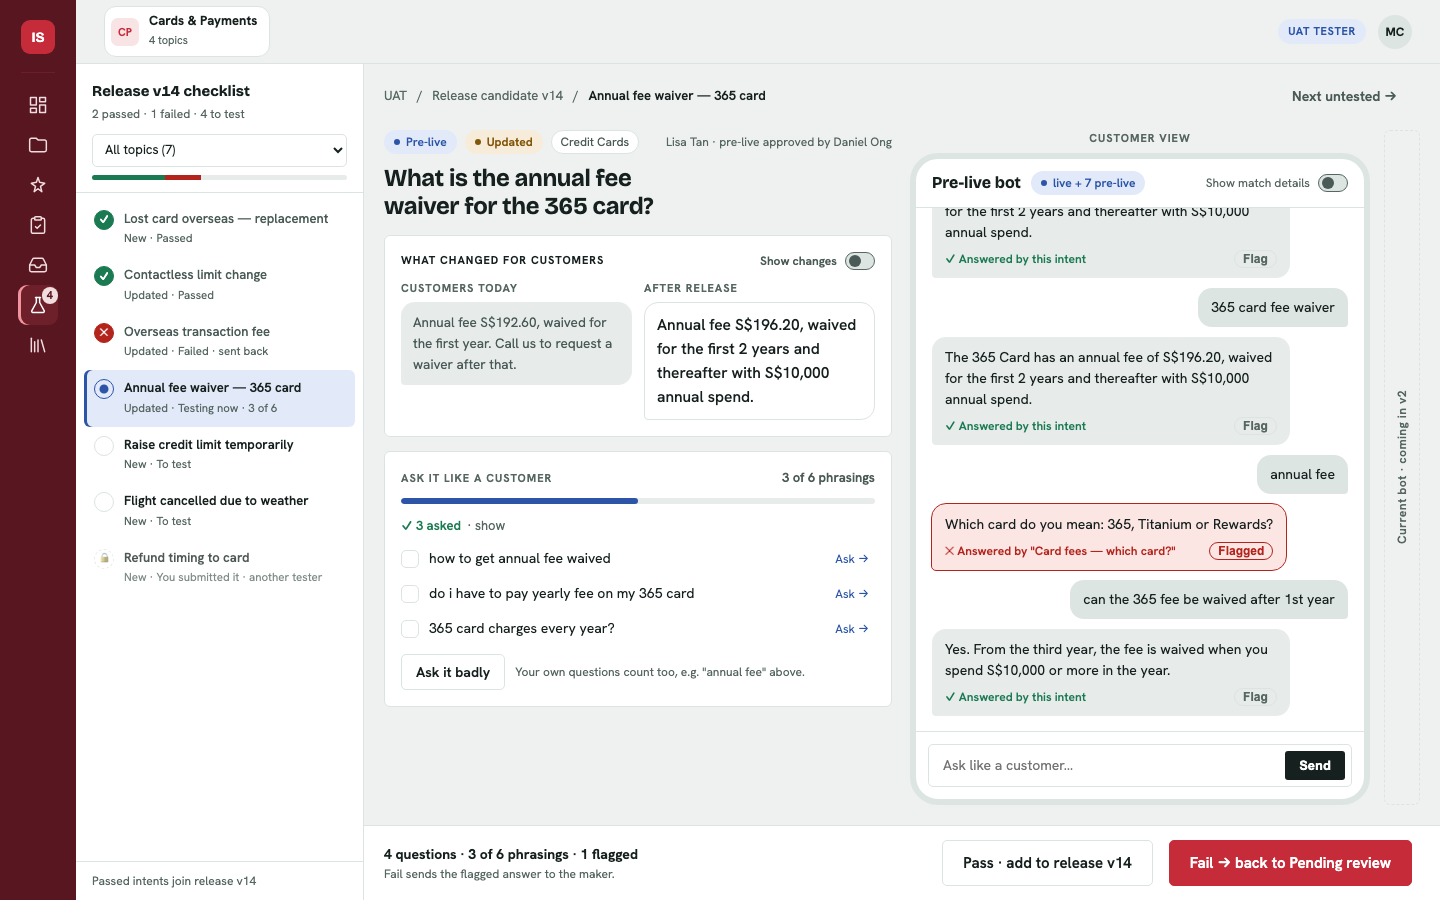
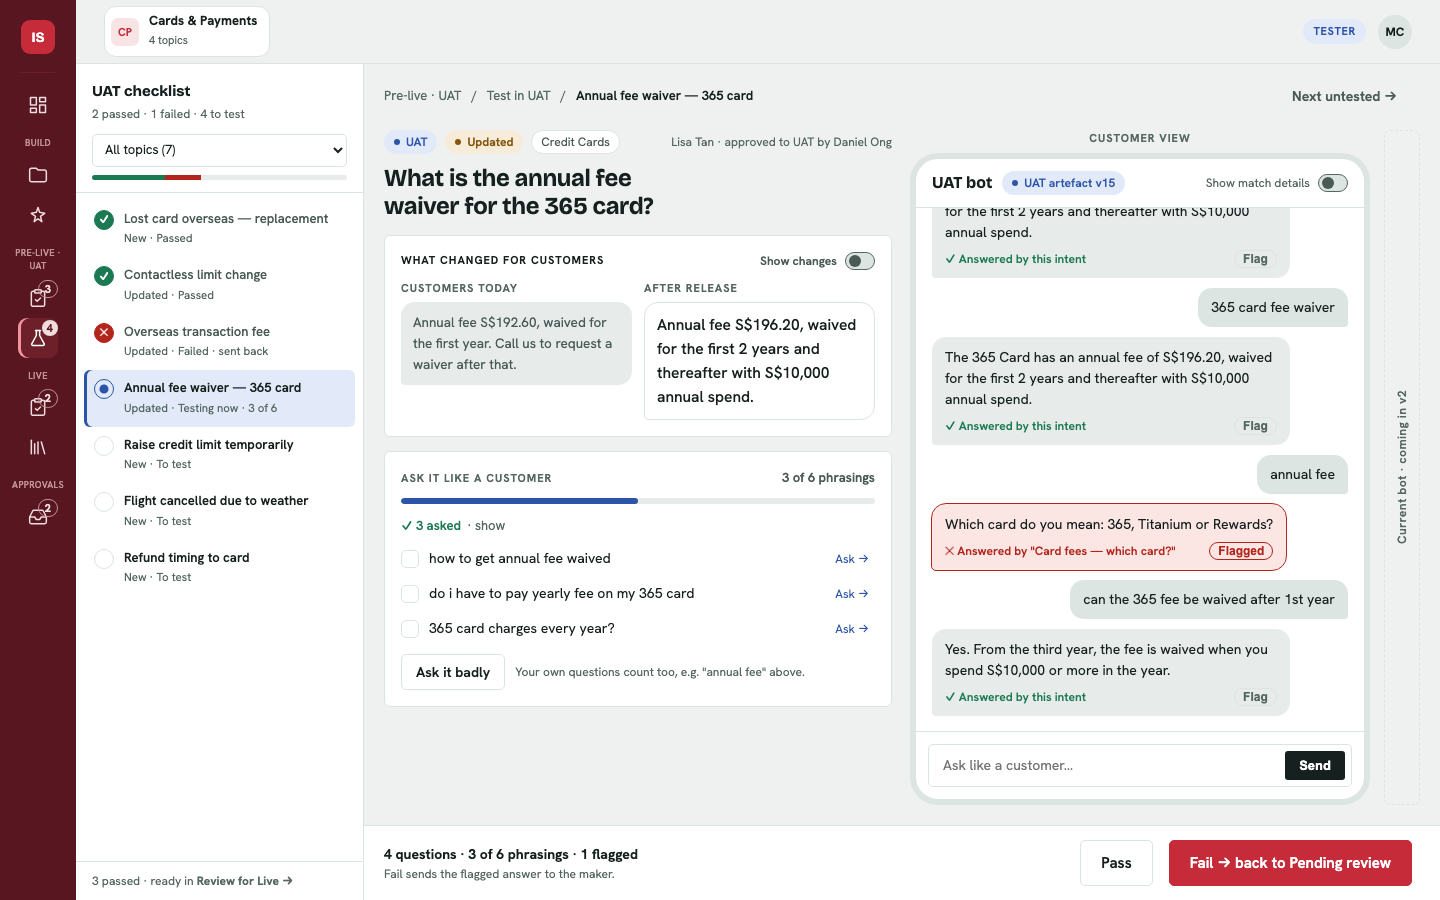
docs(uat): parallel pre-live/live nav, single Approvals with categories, phase 1 = Test in UAT
Claude-Session: https://claude.ai/code/session_0118dYKHurDLsxt3MXXKWWjQ

diff --git a/mockups/proof-screen-uat.html b/mockups/proof-screen-uat.html
@@ -240,6 +240,9 @@ h1{font-size:28px;line-height:1.18;margin-top:10px}
 .qi.pass .tx b,.qi.fail .tx b{color:var(--ink-2);font-weight:500}
 .qi.lock{opacity:.75;cursor:not-allowed}
 .qt{display:block;width:100%;margin-top:10px;font:inherit;font-size:13px;padding:6px 8px;border:1px solid var(--border);border-radius:5px;background:var(--bg);color:var(--ink)}
+.nav a .n2{margin-left:auto;font-size:11px;font-weight:700;color:var(--nav-ink);border:1px solid var(--nav-sub);border-radius:999px;padding:0 6px}
+.q-panel .nav a .n2{position:absolute;top:2px;right:0}
+.q-panel .nav .sec{display:block;font-size:9px;margin:12px 0 4px;text-align:center;letter-spacing:.04em}
 .qf{padding:10px 16px;border-top:1px solid var(--border);font-size:12px;color:var(--ink-3)}
 .q-panel .work{grid-template-columns:minmax(360px,1fr) minmax(400px,460px) 36px;padding-left:20px;padding-right:20px}
 .q-panel .crumbs{padding-left:20px}.q-panel .crumbs .rel>span{display:none}
@@ -285,7 +288,9 @@ h1{font-size:28px;line-height:1.18;margin-top:10px}
     <div class="brand"><span class="mk">IS</span><span><b>Intent Studio</b><small>Knowledge Operations</small></span></div>
     <a title="Dashboard"><svg width="20" height="20" viewBox="0 0 24 24" fill="none" stroke="currentColor" stroke-width="1.8" stroke-linecap="round" stroke-linejoin="round" aria-hidden="true"><rect x="3" y="3" width="7" height="9"/><rect x="14" y="3" width="7" height="5"/><rect x="14" y="12" width="7" height="9"/><rect x="3" y="16" width="7" height="5"/></svg><span class="lt">Dashboard</span></a>
     <div class="sec">Build</div><a title="Project Settings"><svg width="20" height="20" viewBox="0 0 24 24" fill="none" stroke="currentColor" stroke-width="1.8" stroke-linecap="round" stroke-linejoin="round" aria-hidden="true"><path d="M4 20h16a2 2 0 0 0 2-2V8a2 2 0 0 0-2-2h-7.9L10 4H4a2 2 0 0 0-2 2v12a2 2 0 0 0 2 2z"/></svg><span class="lt">Project Settings</span></a><a title="Intent Studio"><svg width="20" height="20" viewBox="0 0 24 24" fill="none" stroke="currentColor" stroke-width="1.8" stroke-linecap="round" stroke-linejoin="round" aria-hidden="true"><path d="M12 3l1.9 5.8L20 10l-5 3.7L16.6 20 12 16.5 7.4 20 9 13.7 4 10l6.1-1.2z"/></svg><span class="lt">Intent Studio</span></a>
-    <div class="sec">Govern</div><a title="Review"><svg width="20" height="20" viewBox="0 0 24 24" fill="none" stroke="currentColor" stroke-width="1.8" stroke-linecap="round" stroke-linejoin="round" aria-hidden="true"><rect x="8" y="2" width="8" height="4" rx="1"/><path d="M16 4h2a2 2 0 0 1 2 2v14a2 2 0 0 1-2 2H6a2 2 0 0 1-2-2V6a2 2 0 0 1 2-2h2"/><path d="m9 14 2 2 4-4"/></svg><span class="lt">Review</span></a><a title="Approvals"><svg width="20" height="20" viewBox="0 0 24 24" fill="none" stroke="currentColor" stroke-width="1.8" stroke-linecap="round" stroke-linejoin="round" aria-hidden="true"><path d="M22 12h-6l-2 3h-4l-2-3H2"/><path d="M5.45 5.11 2 12v6a2 2 0 0 0 2 2h16a2 2 0 0 0 2-2v-6l-3.45-6.89A2 2 0 0 0 16.76 4H7.24a2 2 0 0 0-1.79 1.11z"/></svg><span class="lt">Approvals</span></a><a class="on" title="UAT"><svg width="20" height="20" viewBox="0 0 24 24" fill="none" stroke="currentColor" stroke-width="1.8" stroke-linecap="round" stroke-linejoin="round" aria-hidden="true"><path d="M9 3h6"/><path d="M10 3v6L4.5 19a1.5 1.5 0 0 0 1.3 2h12.4a1.5 1.5 0 0 0 1.3-2L14 9V3"/></svg><span class="lt">UAT</span> <span class="n">4</span></a><a title="Intent Library"><svg width="20" height="20" viewBox="0 0 24 24" fill="none" stroke="currentColor" stroke-width="1.8" stroke-linecap="round" stroke-linejoin="round" aria-hidden="true"><path d="m16 6 4 14"/><path d="M12 6v14"/><path d="M8 8v12"/><path d="M4 4v16"/></svg><span class="lt">Intent Library</span></a>
+    <div class="sec">Pre-live · UAT</div><a title="Review for UAT"><svg width="20" height="20" viewBox="0 0 24 24" fill="none" stroke="currentColor" stroke-width="1.8" stroke-linecap="round" stroke-linejoin="round" aria-hidden="true"><rect x="8" y="2" width="8" height="4" rx="1"/><path d="M16 4h2a2 2 0 0 1 2 2v14a2 2 0 0 1-2 2H6a2 2 0 0 1-2-2V6a2 2 0 0 1 2-2h2"/><path d="m9 14 2 2 4-4"/></svg><span class="lt">Review</span> <span class="n2">3</span></a><a class="on" title="Test in UAT"><svg width="20" height="20" viewBox="0 0 24 24" fill="none" stroke="currentColor" stroke-width="1.8" stroke-linecap="round" stroke-linejoin="round" aria-hidden="true"><path d="M9 3h6"/><path d="M10 3v6L4.5 19a1.5 1.5 0 0 0 1.3 2h12.4a1.5 1.5 0 0 0 1.3-2L14 9V3"/></svg><span class="lt">Test</span> <span class="n">4</span></a>
+    <div class="sec">Live</div><a title="Review for Live"><svg width="20" height="20" viewBox="0 0 24 24" fill="none" stroke="currentColor" stroke-width="1.8" stroke-linecap="round" stroke-linejoin="round" aria-hidden="true"><rect x="8" y="2" width="8" height="4" rx="1"/><path d="M16 4h2a2 2 0 0 1 2 2v14a2 2 0 0 1-2 2H6a2 2 0 0 1-2-2V6a2 2 0 0 1 2-2h2"/><path d="m9 14 2 2 4-4"/></svg><span class="lt">Review</span> <span class="n2">2</span></a><a title="Live library"><svg width="20" height="20" viewBox="0 0 24 24" fill="none" stroke="currentColor" stroke-width="1.8" stroke-linecap="round" stroke-linejoin="round" aria-hidden="true"><path d="m16 6 4 14"/><path d="M12 6v14"/><path d="M8 8v12"/><path d="M4 4v16"/></svg><span class="lt">Library</span></a>
+    <div class="sec">Approvals</div><a title="Approvals"><svg width="20" height="20" viewBox="0 0 24 24" fill="none" stroke="currentColor" stroke-width="1.8" stroke-linecap="round" stroke-linejoin="round" aria-hidden="true"><path d="M22 12h-6l-2 3h-4l-2-3H2"/><path d="M5.45 5.11 2 12v6a2 2 0 0 0 2 2h16a2 2 0 0 0 2-2v-6l-3.45-6.89A2 2 0 0 0 16.76 4H7.24a2 2 0 0 0-1.79 1.11z"/></svg><span class="lt">Approvals</span> <span class="n2">2</span></a>
   </nav>
   <div class="main">
     <header class="top">
@@ -293,10 +298,10 @@ h1{font-size:28px;line-height:1.18;margin-top:10px}
       <span class="role">TESTER</span><span class="av">MC</span>
     </header>
     <div class="crumbs">
-      <span>UAT</span><span>/</span><span>Release candidate v14</span><span>/</span><b id="crumbT">Annual fee waiver — 365 card</b>
+      <span>Pre-live · UAT</span><span>/</span><span>Test in UAT</span><span>/</span><b id="crumbT">Annual fee waiver — 365 card</b>
       <span class="rel"><span>7 changed: 2 passed · 1 failed · 4 to test</span><button class="btn ghost" id="next">Next untested →</button></span>
     </div>
-    <aside class="queue" aria-label="Release v14 checklist"><div class="qh"><b>Release v14 checklist</b><small>2 passed · 1 failed · 4 to test</small><select class="qt" aria-label="Filter by topic"><option>All topics (7)</option><option>Credit Cards (5)</option><option>Travel Insurance (1)</option><option>Payments (1)</option></select><div class="qbar"><i class="p" style="width:28.6%"></i><i class="f" style="width:14.3%"></i></div></div><ol class="ql"><li class="qi pass" tabindex="0"><span class="st">✓</span><span class="tx"><b>Lost card overseas — replacement</b><small>New · Passed</small></span></li><li class="qi pass" tabindex="0"><span class="st">✓</span><span class="tx"><b>Contactless limit change</b><small>Updated · Passed</small></span></li><li class="qi fail" tabindex="0"><span class="st">✕</span><span class="tx"><b>Overseas transaction fee</b><small>Updated · Failed · sent back</small></span></li><li class="qi cur" tabindex="0"><span class="st">●</span><span class="tx"><b>Annual fee waiver — 365 card</b><small>Updated · Testing now · 3 of 6</small></span></li><li class="qi todo" tabindex="0"><span class="st"></span><span class="tx"><b>Raise credit limit temporarily</b><small>New · To test</small></span></li><li class="qi todo" tabindex="0"><span class="st"></span><span class="tx"><b>Flight cancelled due to weather</b><small>New · To test</small></span></li><li class="qi todo" tabindex="0"><span class="st"></span><span class="tx"><b>Refund timing to card</b><small>New · To test</small></span></li></ol><div class="qf">Passed intents join release v14</div></aside>
+    <aside class="queue" aria-label="Release v14 checklist"><div class="qh"><b>UAT checklist</b><small>2 passed · 1 failed · 4 to test</small><select class="qt" aria-label="Filter by topic"><option>All topics (7)</option><option>Credit Cards (5)</option><option>Travel Insurance (1)</option><option>Payments (1)</option></select><div class="qbar"><i class="p" style="width:28.6%"></i><i class="f" style="width:14.3%"></i></div></div><ol class="ql"><li class="qi pass" tabindex="0"><span class="st">✓</span><span class="tx"><b>Lost card overseas — replacement</b><small>New · Passed</small></span></li><li class="qi pass" tabindex="0"><span class="st">✓</span><span class="tx"><b>Contactless limit change</b><small>Updated · Passed</small></span></li><li class="qi fail" tabindex="0"><span class="st">✕</span><span class="tx"><b>Overseas transaction fee</b><small>Updated · Failed · sent back</small></span></li><li class="qi cur" tabindex="0"><span class="st">●</span><span class="tx"><b>Annual fee waiver — 365 card</b><small>Updated · Testing now · 3 of 6</small></span></li><li class="qi todo" tabindex="0"><span class="st"></span><span class="tx"><b>Raise credit limit temporarily</b><small>New · To test</small></span></li><li class="qi todo" tabindex="0"><span class="st"></span><span class="tx"><b>Flight cancelled due to weather</b><small>New · To test</small></span></li><li class="qi todo" tabindex="0"><span class="st"></span><span class="tx"><b>Refund timing to card</b><small>New · To test</small></span></li></ol><div class="qf">3 passed · ready in <b>Review for Live →</b></div></aside>
 
     <div class="work">
       <section class="col" aria-label="Intent under test">
@@ -361,7 +366,7 @@ h1{font-size:28px;line-height:1.18;margin-top:10px}
       <div class="sum"><b>4 questions · 3 of 6 phrasings · 1 flagged</b><small>Your transcript is attached to the decision.</small><small class="mix-only">Fail sends the flagged answer to the maker.</small></div>
       <div class="why"><b>Fail reason, pre-filled:</b> "annual fee" was answered by "Card fees — which card?", not this intent.</div>
       <div class="reason"><textarea aria-label="Fail reason">"annual fee" was answered by "Card fees — which card?", not this intent.</textarea><button class="btn" id="cancelFail">Cancel</button><button class="btn primary" id="confirmFail">Send back</button></div><div class="done-banner"></div>
-      <button class="btn lg" id="pass">Pass · add to release v14</button>
+      <button class="btn lg" id="pass">Pass</button>
       <button class="btn lg primary" id="fail">Fail → back to Pending review</button>
     </footer>
   </div>
@@ -400,7 +405,7 @@ const d=$('.decide');
 $('#fail').onclick=()=>{d.classList.add('failing');$('#fail').style.display='none';$('#pass').style.display='none'};
 $('#cancelFail').onclick=()=>{d.classList.remove('failing');$('#fail').style.display='';$('#pass').style.display=''};
 $('#confirmFail').onclick=()=>{d.classList.remove('failing');d.classList.add('decided');mark('fail','Failed · sent back','✕');$('.done-banner').textContent='Failed. Sent back to Pending review with your note. Next intent →'};
-$('#pass').onclick=()=>{d.classList.add('decided');mark('pass','Passed','✓');$('.done-banner').textContent='Passed. Added to release v14 (3 of 7 passed). Next intent →'};
+$('#pass').onclick=()=>{d.classList.add('decided');mark('pass','Passed','✓');$('.done-banner').textContent='Passed. Ready in Review for Live. Next untested →'};
 function mark(k,t,sym){const c=document.querySelector('.qi.cur');if(!c)return;c.classList.add(k);c.querySelector('.st').textContent=sym;const sm=c.querySelector('small');sm.textContent=sm.textContent.split(' · ')[0]+' · '+t}
 sync();
 const qs=[...document.querySelectorAll('.qi')];

diff --git a/docs/specs/2026-10-05-uat-tab-prd.md b/docs/specs/2026-10-05-uat-tab-prd.md
@@ -68,7 +68,23 @@ UatTest   { id, intent_id, tester, started_at, decided_at, result: pass|fail, re
 
 ## 5. Screens
 
-### 5.1 UAT tab (new; under GOVERN, between Approvals and Intent Library)
+### 5.0 Navigation (owner: pre-live and live are parallel processes)
+
+```
+Dashboard
+BUILD           Project Settings · Intent Studio
+PRE-LIVE · UAT  Review  (badge)  → page "Review for UAT"
+                Test    (badge)  → page "Test in UAT"
+LIVE            Review  (badge)  → page "Review for Live"
+                Library          → page "Live library"
+APPROVALS       Approvals (badge) → one page, categories: To UAT · To Live · History
+```
+
+- **Review is one page component used twice**, filtered by stage. "Review for UAT" is today's Review page: it lists *Pending review* intents, and its action is "Submit for approval to UAT". "Review for Live" lists *UAT passed* intents; its action is "Create release vN+1", and each card shows its test evidence.
+- **Badges** count the items waiting at that step.
+- **Phasing:** Phase 1 = the Test in UAT page, the statuses (§2), the engine contract (§4) and the error states (§6). Phase 2 = Review for Live, the To Live approval, and Library versions and rollback. Until Phase 2 ships, passed intents wait in UAT passed.
+
+### 5.1 Test in UAT (new page; nav PRE-LIVE · UAT → Test)
 
 - **Entry:** opens the test view with the first untested intent selected. There is no separate landing page.
 - **Layout:** the main nav collapses to icons on this tab only. Left to right: checklist panel, intent column, UAT bot ("Customer view"), and the "Current bot · coming in v2" rail.
@@ -77,7 +93,7 @@ UatTest   { id, intent_id, tester, started_at, decided_at, result: pass|fail, re
   - **Tag:** New (not in the live artefact) or Updated (same ID in the live artefact with a different answer).
   - **Status:** to test · testing now · passed · in release vN · failed · sent back.
   - Click a row to open it. "Next untested →" jumps to the next untested intent. Testing can happen in any order.
-  - **Owner only:** "Create release vN+1" in the footer. It opens the list of **UAT passed** intents with checkboxes; the owner submits the selected ones (status → 6).
+  - Footer: "N passed · ready in Review for Live →" (a link). Releases are created in Review for Live, not here.
 - **"What changed for customers":**
   - **Customers today** is the intent's answer from the live artefact. For a New intent it reads "No answer today".
   - **After release** is the UAT answer.
@@ -93,21 +109,21 @@ UatTest   { id, intent_id, tester, started_at, decided_at, result: pass|fail, re
   - **Fail** opens an inline reason box, pre-filled from the first flagged turn. Send back saves the `UatTest` and applies R1.
 - **Empty state:** "Nothing in UAT. Intents appear here once approved to UAT."
 
-### 5.2 Approvals
+### 5.2 Approvals (one page)
 
-- Two request types: **To UAT** (today's flow, unchanged) and **Release to live** (new).
+- Category tabs: **To UAT** (today's flow, unchanged), **To Live** (release requests, new) and **History**.
 - **Release detail:** the version, the submitter, and each intent with Customers today | After release. Each intent also shows its test evidence: tester, date, number of questions, and a link to the transcript.
 - Approve / Reject (with a note) applies §3 and R2. R4 is enforced: the submitter sees their own release with no decision buttons.
 
-### 5.3 Review
+### 5.3 Review for UAT / Review for Live (one component, two stages)
 
-- Rename "Staged" to "Pending review".
-- Intents returned by R1 show a "Failed in UAT" or "Rejected" tag, the reason, and a link to the transcript.
+- **Review for UAT:** today's Review page. Rename "Staged" to "Pending review". Intents returned by R1 show a "Failed in UAT" or "Rejected" tag, the reason, and a link to the transcript.
+- **Review for Live:** the same layout, listing **UAT passed** intents. Each card shows Customers today | After release and the test evidence (tester, date, questions, transcript link). Checkboxes, then **Create release vN+1**, which submits to Approvals → To Live (status → 6). Owner only.
 
 ### 5.4 Intent Library
 
 - The header reads "Live vN · since <date>".
-- A new **Releases** tab lists the history (version, status, intent count, who and when). Owners can start **Roll back to vN** on any superseded version (§3).
+- A **Releases** tab lists the history (version, status, intent count, who and when). Owners can start **Roll back to vN** on any superseded version (§3); it is submitted to Approvals → To Live.
 
 ### 5.5 Dashboard
 
@@ -133,11 +149,11 @@ UatTest   { id, intent_id, tester, started_at, decided_at, result: pass|fail, re
 
 ## 8. Acceptance: the demo script
 
-1. A tester opens **UAT**. The checklist shows every intent at statuses 4–6 with New/Updated tags.
+1. A tester opens **PRE-LIVE · UAT → Test**. The checklist shows every intent at statuses 4–6 with New/Updated tags.
 2. They open an **Updated** intent, turn on **Show changes**, ask 2–3 phrasings (each ✓ answered by this intent), and press **Pass**. The row shows passed, and the status is **UAT passed**.
 3. They open a second intent and ask a question that another intent answers. The answer is flagged automatically, **Fail** becomes primary with the reason pre-filled, and they press **Send back**. The intent appears in **Review** as Pending review, with the reason and the transcript.
-4. The owner opens **Create release vN+1**, ticks the passed intent and submits. It appears in **Approvals → Release to live**, and the owner can't approve it.
-5. A different user approves it. The **Library** shows **Live vN+1**, and the live chatbot serves the new answer.
+4. The owner opens **LIVE → Review** ("Review for Live"), ticks the passed intent and presses **Create release vN+1**. It appears in **Approvals → To Live**, and the owner can't approve it.
+5. A different user approves it. **LIVE → Library** shows **Live vN+1**, and the live chatbot serves the new answer.
 6. Each test decision (steps 2–3) takes under 2 minutes, unaided.
 
 ## 9. Workflow parity (adopt mode)

diff --git a/docs/poc/LOG.md b/docs/poc/LOG.md
@@ -27,3 +27,4 @@
 - 2026-10-05T06:20:57+00:00: correction: Owner: the overview/checklist of pending UAT intents must stay visible while testing; 'Next intent' alone loses the overview. Space is tight — find a way (reverses the C4 fix that collapsed the queue).
 - 2026-10-05T07:49:15+00:00: correction: Owner: separation of duties simplified to 'submitter for approval != approver' at each approval gate only. UAT testing has no submitter restriction (drop the locked 'you submitted it' row). Owner's status names: draft -> pending review -> pending approval to UAT -> UAT -> (passed) -> pending approval to live -> live.
 - 2026-10-05T07:53:24+00:00: stage 2 step prd-written dispatched=superpowers:brainstorming
+- 2026-10-05T09:56:57+00:00: correction: Owner: nav must show pre-live and live as parallel processes with action names; sections PRE-LIVE · UAT (Review, Test) and LIVE (Review, Library); one Approvals page with categories (To UAT / To Live / History); Review page cloned per stage; release creation lives in 'Review for Live', not in the Test page. Focus on the UAT test page first.
